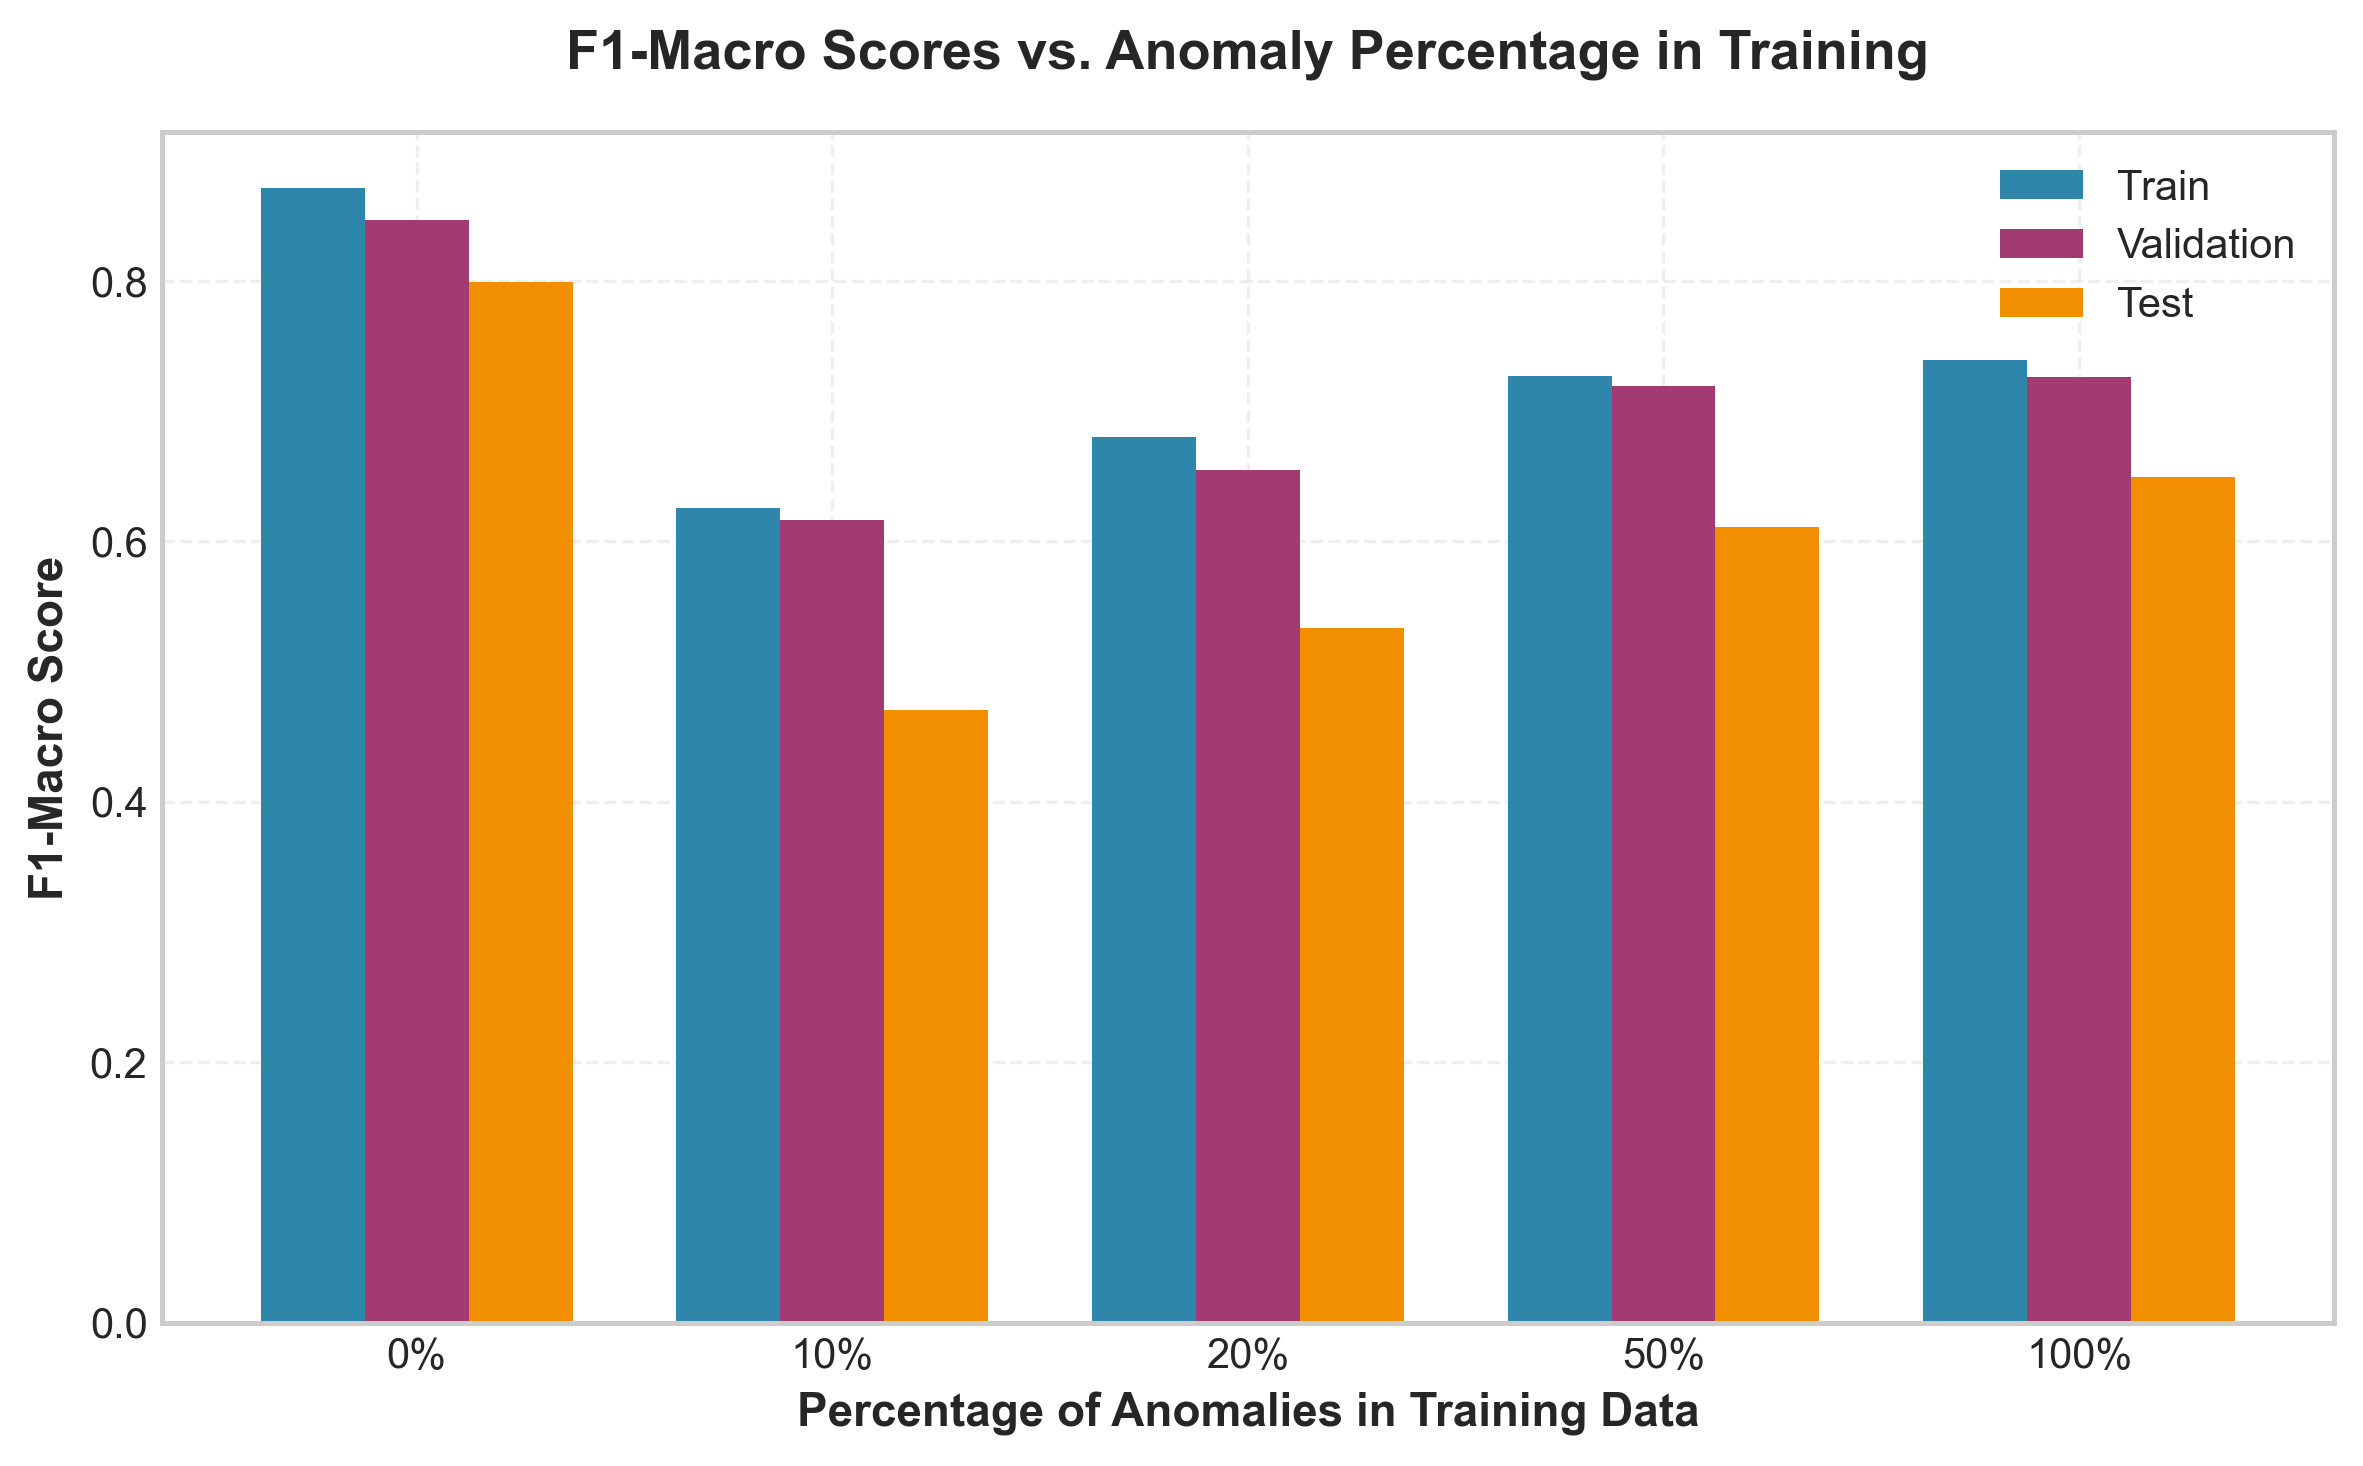
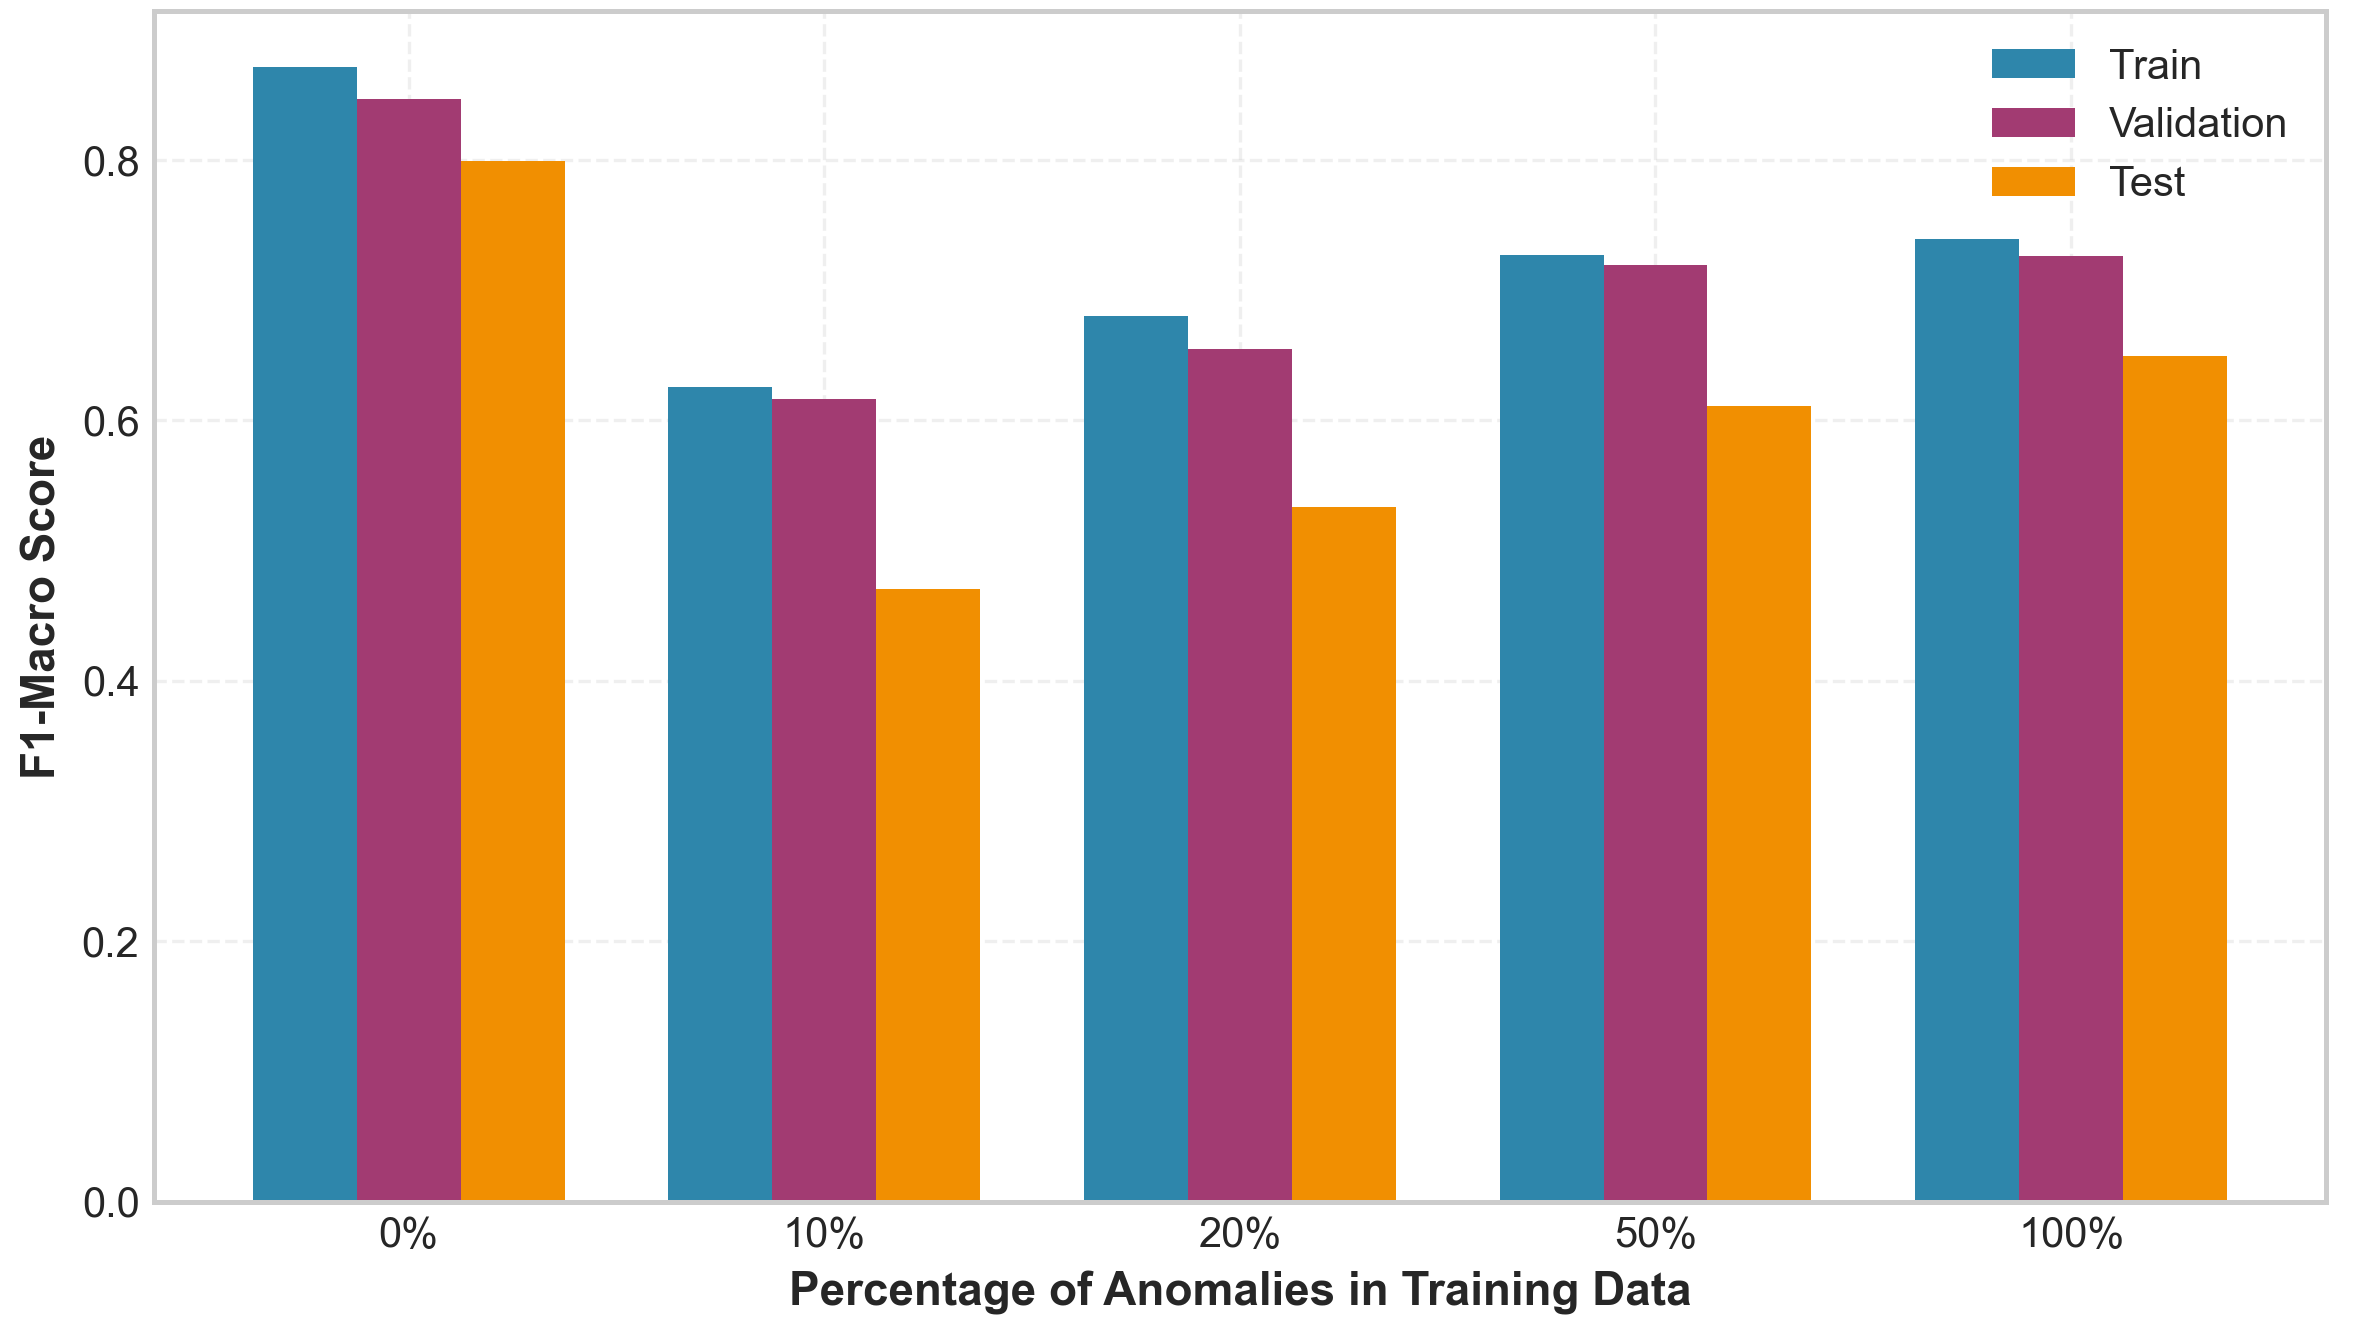
Minor improvementes task 2

diff --git a/report/sections/Task2.tex b/report/sections/Task2.tex
@@ -4,7 +4,7 @@ In this section, we explore Shallow Anomaly Detection using One-Class Support Ve
 \subsection{One-Class SVM with Normal data only}
 We first trained the OC-SVM on normal traffic only. The parameter $\nu$ controls the fraction of training errors and support vectors. Since our training set is clean, a very small $\nu$ (e.g., $0.00001$ or $0.001$) is appropriate, creating a boundary that encompasses most normal data.
 
-Comparing small values ($\nu=0.00001, 0.001$) with the default $\nu=0.5$, as shown in \cref{tab:task2_ocsvm_normal}:
+Comparing small values ($\nu=0.00001, \nu=0.001$) with the default $\nu=0.5$ on the whole training set, as shown in \cref{tab:task2_ocsvm_normal}:
 \begin{itemize}
     \item \textbf{Small $\nu$ ($0.00001, 0.001$):} These settings assume that most training data is normal. They yield a broad decision boundary that fits the normal manifold, resulting in high recall for normal traffic. Specifically, while $\nu=0.00001$ creates a very loose boundary minimizing False Positives, we observed that $\nu=0.001$ yields slightly better overall performance (F1-score), offering a better balance between precision and recall.
     \item \textbf{Large $\nu$ ($0.5$):} Forces \SI{50}{\percent} of data to be outliers, creating a tight boundary with high False Positive rates, making it unsuitable for this clean dataset.
@@ -32,7 +32,7 @@ Comparing small values ($\nu=0.00001, 0.001$) with the default $\nu=0.5$, as sho
 
 \subsection{One-Class SVM with All data}
 Next, we trained the OC-SVM on the full training set (normal + anomalies), setting $\nu$ to the anomaly ratio (approximately $0.29$).
-Comparing the two approaches, the Normal-Only model (Novelty Detection) significantly outperforms the All-Data model (Outlier Detection), as shown in \cref{tab:task2_ocsvm_all}. The All-Data model achieves only $0.65$ accuracy on the test set compared to $0.74$ for the Normal-Only model with $\nu=0.001$. This performance gap is explained by the fact that the Normal-Only model robustly learns the ``normality'' concept without influence from specific anomalies, while the All-Data model struggles with class imbalance, achieving very low recall ($0.08$) for normal traffic in test set. The All-Data model's success depends heavily on $\nu$ matching the exact contamination rate; when anomalies are diverse or overlap with normal patterns, the decision boundary becomes unreliable.
+Comparing the two approaches, the Normal-Only model (Novelty Detection) significantly outperforms the All-Data model (Outlier Detection), as shown in \cref{tab:task2_ocsvm_all}. The All-Data model achieves only $0.65$ accuracy on the test set compared to $0.74$ for the Normal-Only model with $\nu=0.001$. This performance gap is explained by the fact that the Normal-Only model robustly learns the ``normality'' concept without influence from specific anomalies, while the All-Data model struggles with class imbalance, achieving very low recall ($0.08$) for normal traffic in test set. The All-Data model's success depends heavily on $\nu$ matching the correct contamination rate; when anomalies are diverse or overlap with normal patterns, the decision boundary becomes unreliable.
 
 \begin{table}
     \centering
@@ -55,32 +55,41 @@ Comparing the two approaches, the Normal-Only model (Novelty Detection) signific
 \end{table}
 
 \subsection{One-Class SVM with normal traffic and some anomalies}
-We investigated the effect of training set contamination by varying the anomaly percentage (\SI{0}{\percent} to \SI{100}{\percent}) and adjusting $\nu$ accordingly.
+We investigated the effect of training set contamination by varying the anomaly percentage (\SI{0}{\percent} to \SI{100}{\percent}) and adjusting $\nu$ accordingly, computed as the number of considered anomalies divided by the total amount of data.
 
-\Cref{tab:task2_contamination} shows the F1-macro scores for different contamination levels. With \SI{0}{\percent} anomalies, the model learns a pure normal boundary and achieves the best test performance ($0.80$). Introducing \SI{10}{\percent} contamination causes a sharp drop to $0.47$, as the model struggles to define an appropriate boundary when exposed to a small number of diverse anomaly patterns. Interestingly, as contamination increases further (\SI{20}{\percent}, \SI{50}{\percent}, \SI{100}{\percent}), performance gradually improves ($0.53 \rightarrow 0.61 \rightarrow 0.65$), suggesting that with sufficient anomaly exposure, the model begins to learn more robust boundaries. However, even at \SI{100}{\percent} contamination (equivalent to the All-Data approach), performance ($0.65$) remains significantly below the clean normal-only model ($0.80$), highlighting that Novelty Detection is superior when clean reference data is available.
+\Cref{fig:task2_f1_scores} shows the F1-macro scores for different contamination levels. With \SI{0}{\percent} anomalies, the model learns a pure normal boundary and achieves the best test performance ($0.80$). Introducing \SI{10}{\percent} contamination causes a sharp drop to $0.47$, as the model struggles to define an appropriate boundary when exposed to a small number of diverse anomaly patterns. Interestingly, as contamination increases further (\SI{20}{\percent}, \SI{50}{\percent}, \SI{100}{\percent}), performance gradually improves ($0.53 \rightarrow 0.61 \rightarrow 0.65$), suggesting that with sufficient anomaly exposure, the model begins to learn more robust boundaries. However, even at \SI{100}{\percent} contamination (equivalent to the All-Data approach), performance ($0.65$) remains significantly below the clean normal-only model ($0.80$), highlighting that Novelty Detection is superior when clean reference data is available.
 
+\begin{figure}
+    \centering
+    \includegraphics[width=0.8\linewidth]{img/Task2/task2_f1_scores_vs_anomaly_percentage.png}
+    \caption{F1-Macro scores vs. percentage of anomalies in the training data.}
+    \label{fig:task2_f1_scores}
+\end{figure}
+
+\begin{comment}
 \begin{table}
     \centering
     \caption{F1-Macro scores for different anomaly contamination percentages in training data.}
     \label{tab:task2_contamination}
     \begin{tabular}{cccc}
         \toprule
-        \textbf{Anomaly \%} & \textbf{Train F1-Macro} & \textbf{Val F1-Macro} & \textbf{Test F1-Macro} \\
+        \textbf{Anomaly [\si{\percent}]} & \textbf{Train F1-Macro} & \textbf{Val F1-Macro} & \textbf{Test F1-Macro} \\
         \midrule
-        0\% & 0.88 & 0.86 & 0.80 \\
-        10\% & 0.62 & 0.62 & 0.47 \\
-        20\% & 0.68 & 0.66 & 0.53 \\
-        50\% & 0.72 & 0.71 & 0.61 \\
-        100\% & 0.73 & 0.72 & 0.65 \\
+        \SI{0}{\percent} & 0.88 & 0.86 & 0.80 \\
+        \SI{10}{\percent} & 0.62 & 0.62 & 0.47 \\
+        \SI{20}{\percent} & 0.68 & 0.66 & 0.53 \\
+        \SI{50}{\percent} & 0.72 & 0.71 & 0.61 \\
+        \SI{100}{\percent} & 0.73 & 0.72 & 0.65 \\
         \bottomrule
     \end{tabular}
 \end{table}
+\end{comment}
 
 \subsection{Robustness of the One-Class SVM model}
 Finally, we evaluated robustness on the test set. The model trained on clean normal data generalized best, avoiding overfitting to specific training anomalies.
 
 We observed two main error types: False Positives (normal flagged as anomaly due to tight boundaries) and False Negatives (anomalies missed due to loose boundaries).
-To better understand the model's limitations, we performed a per-attack analysis using the best-performing model (Normal-Only, $\nu=0.001$). \Cref{tab:task2_per_attack} provides a detailed breakdown of the model's recall for each attack type. The analysis reveals that DoS attacks are the most challenging to detect, with a False Negative Rate of $31\%$ and a recall of $0.69$. This indicates that approximately one-third of DoS attacks evade detection, likely because some DoS patterns (especially low-rate or distributed attacks) can resemble legitimate high-traffic scenarios, making them difficult to distinguish from normal network behavior. In contrast, Probe attacks are easier to detect, with a lower False Negative Rate of $15\%$ and a higher recall of $0.85$. Probe attacks, which involve network scanning and reconnaissance activities, tend to exhibit more distinctive patterns (such as systematic port scanning or unusual connection sequences) that diverge more clearly from normal traffic, making them more identifiable by the model.
+To better understand the model's limitations, we performed a per-attack analysis using the best-performing model (Normal-Only, $\nu=0.001$). \Cref{tab:task2_per_attack} provides a summary of the model's recall for each attack type in the test set (\texttt{dos} and \texttt{probe}). The analysis reveals that DoS attacks are the most challenging to detect, with a False Negative Rate of $\SI{31}{\percent}$ and a recall of $0.69$. This indicates that approximately one-third of DoS attacks evade detection, likely because some DoS patterns (especially low-rate or distributed attacks) can resemble legitimate high-traffic scenarios, making them difficult to distinguish from normal network behavior. In contrast, Probe attacks are easier to detect, with a lower False Negative Rate of $\SI{15}{\percent}$ and a higher recall of $0.85$. Probe attacks, which involve network scanning and reconnaissance activities, tend to exhibit more distinctive patterns (such as systematic port scanning or unusual connection sequences) that diverge more clearly from normal traffic, making them more identifiable by the model.
 
 \begin{table}
     \centering
@@ -110,14 +119,14 @@ To conclude our analysis, we compared the performance of all trained configurati
         Normal-Only ($\nu=1\text{e-}05$) & 0.88 & 0.86 & 0.80 \\
         Normal-Only ($\nu=0.001$) & 0.91 & 0.88 & 0.74 \\
         All-Data ($\nu=0.286$) & 0.74 & 0.72 & 0.65 \\
-        Mixed (50\% anomalies) & 0.72 & 0.71 & 0.61 \\
-        Mixed (20\% anomalies) & 0.68 & 0.65 & 0.53 \\
-        Mixed (10\% anomalies) & 0.63 & 0.62 & 0.47 \\
+        Mixed (\SI{50}{\percent} anomalies) & 0.72 & 0.71 & 0.61 \\
+        Mixed (\SI{20}{\percent} anomalies) & 0.68 & 0.65 & 0.53 \\
+        Mixed (\SI{10}{\percent} anomalies) & 0.63 & 0.62 & 0.47 \\
         Normal-Only ($\nu=0.5$) & 0.64 & 0.64 & 0.47 \\
         \bottomrule
     \end{tabular}
 \end{table}
 
-The comparison reveals several key insights. The Normal-Only model with $\nu=0.001$ achieves strong generalization performance with a test F1-macro score of $0.74$, demonstrating robust anomaly detection capabilities. However, the model with $\nu=1\text{e-}05$ achieves the best test performance ($0.80$) at the cost of slightly lower training performance ($0.88$ vs $0.91$), suggesting a better bias-variance tradeoff. The All-Data model ($\nu=0.286$) performs moderately with a test F1-macro of $0.65$, significantly lower than the best Normal-Only configuration. Models trained with mixed data show progressively degraded performance as contamination decreases, with test scores dropping from $0.61$ (50\% anomalies) to $0.47$ (10\% anomalies). The Normal-Only model with default $\nu=0.5$ performs poorly ($0.47$ on test), confirming that this setting is inappropriate for clean datasets.
+The comparison reveals several key insights. The Normal-Only model with $\nu=0.001$ achieves strong generalization performance with a test F1-macro score of $0.74$, demonstrating robust anomaly detection capabilities. However, the model with $\nu=1\text{e-}05$ achieves the best test performance ($0.80$) at the cost of slightly lower training performance ($0.88$ vs $0.91$), suggesting a better bias-variance tradeoff. The All-Data model ($\nu=0.286$) performs moderately with a test F1-macro of $0.65$, significantly lower than the best Normal-Only configuration. Models trained with mixed data show progressively degraded performance as contamination decreases, with test scores dropping from $0.61$ (\SI{50}{\percent} anomalies) to $0.47$ (\SI{10}{\percent} anomalies). The Normal-Only model with default $\nu=0.5$ performs poorly ($0.47$ on test), confirming that this setting is inappropriate for clean datasets.
 
 While models trained on mixed data (All-Data and Mixed configurations) can perform reasonably well if $\nu$ is carefully tuned to the contamination rate, they generally exhibit lower stability and performance compared to the model trained on clean data. This reinforces the advantage of Novelty Detection when a clean reference dataset is available. The Normal-Only approach not only achieves superior metrics but also demonstrates more consistent behavior across training, validation, and test sets, indicating better generalization capabilities.

diff --git a/report/main.tex b/report/main.tex
@@ -14,6 +14,7 @@
 \usepackage{listings}
 
 \usepackage{upgreek}
+\usepackage{comment}
 
 \usepackage{siunitx}
 \usepackage{nicefrac}
